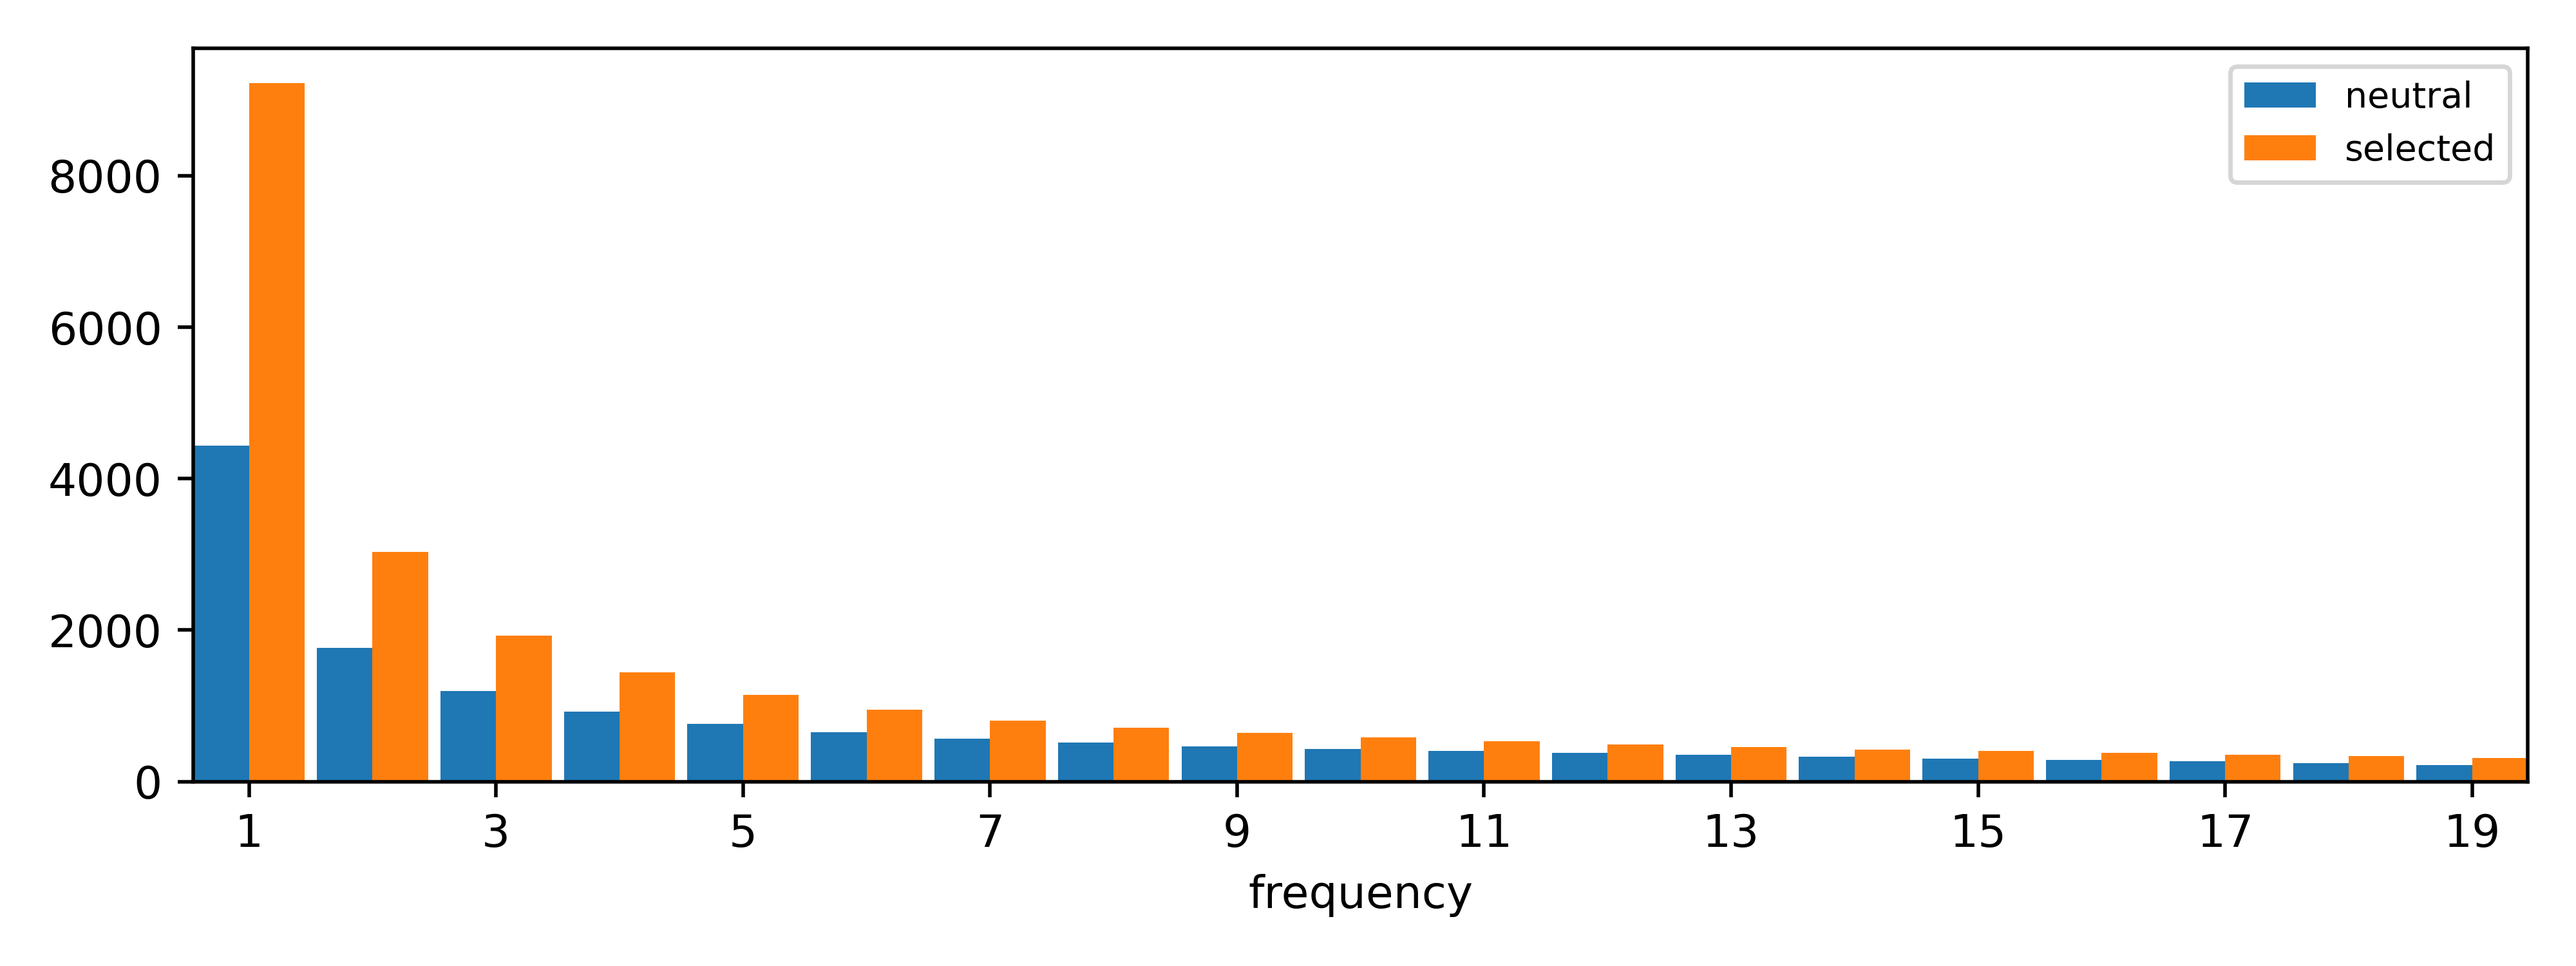
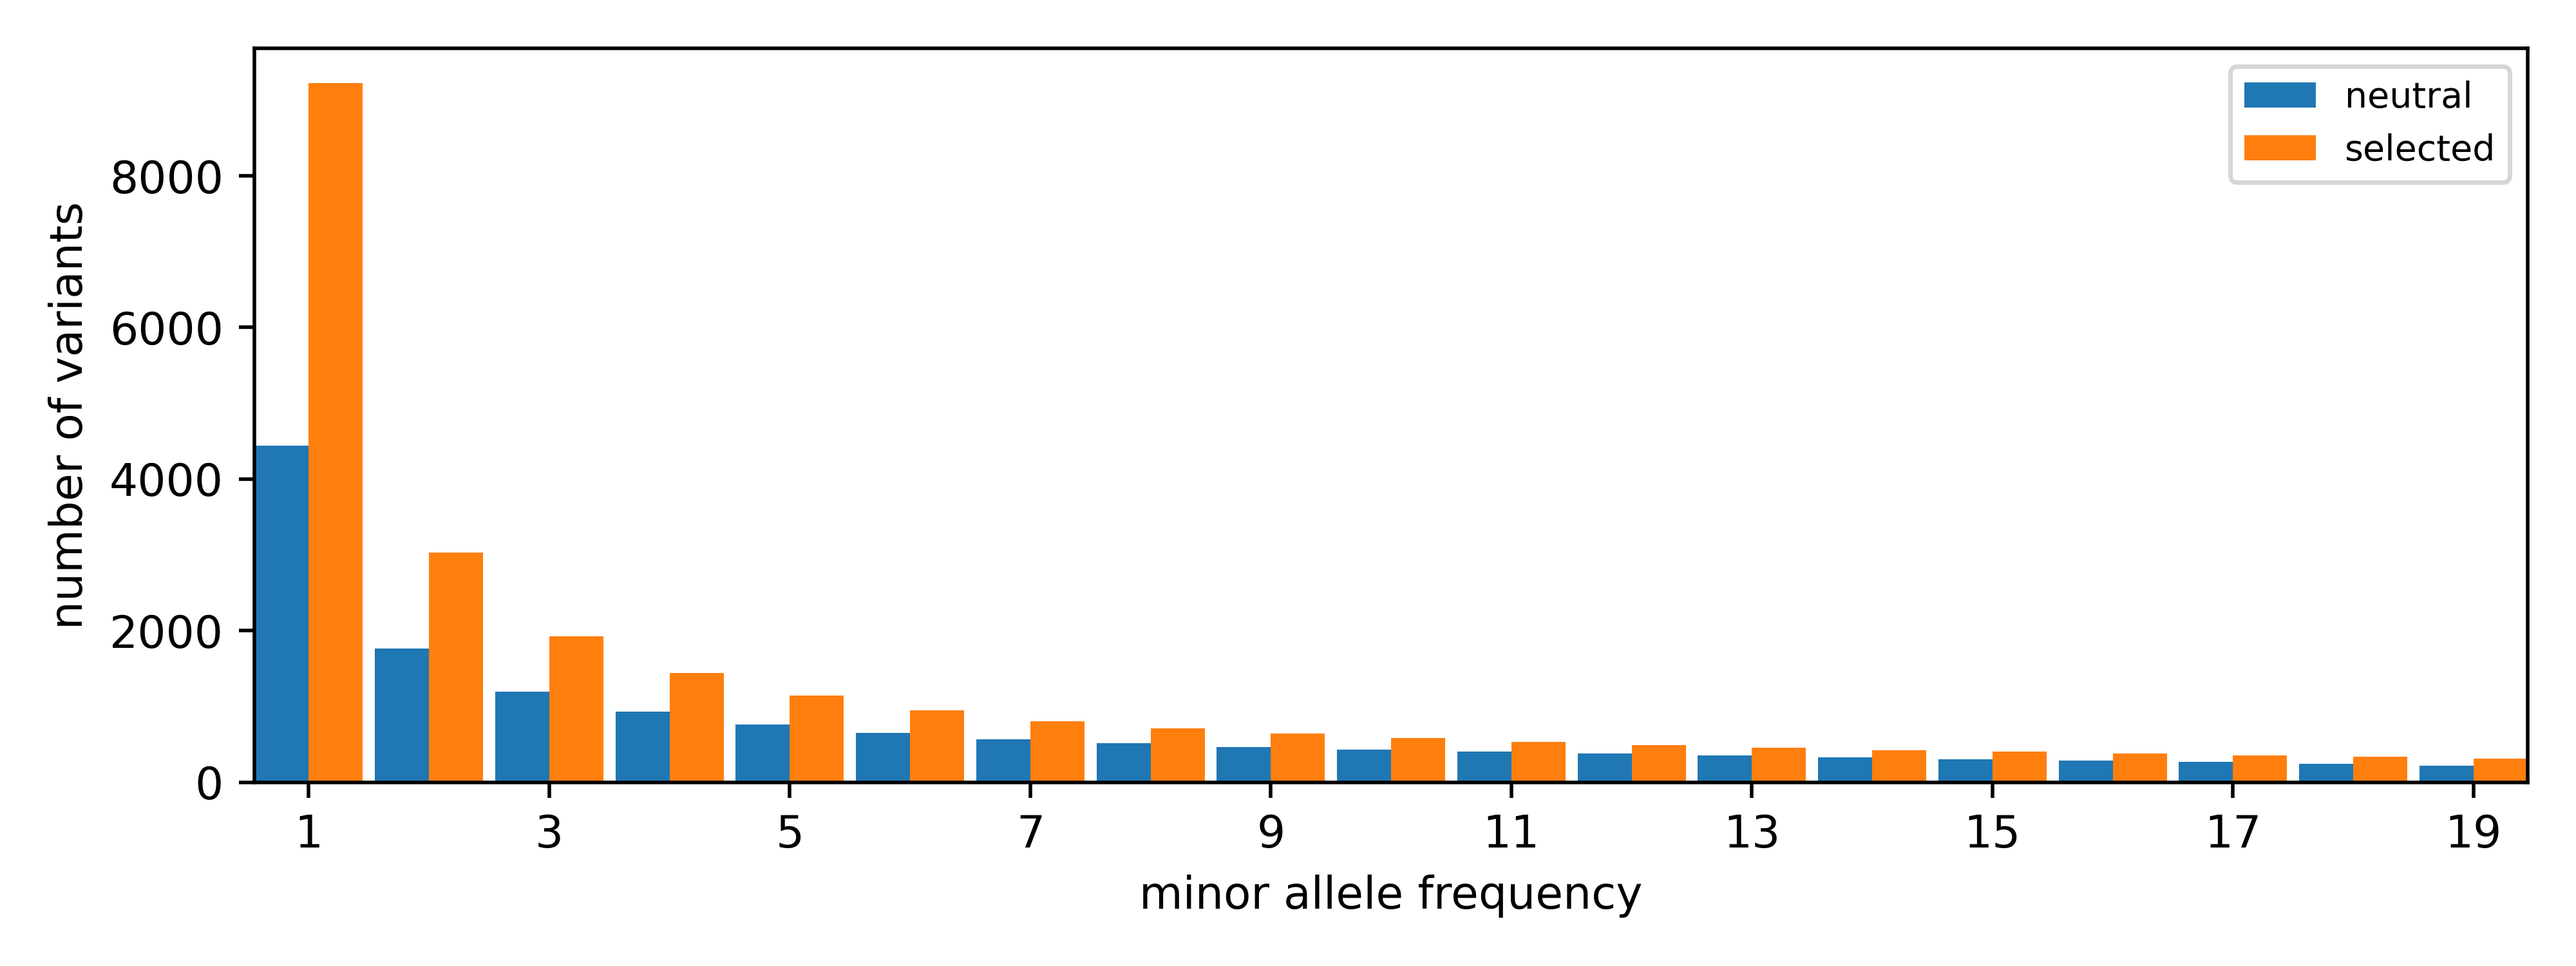
Update figures.

Changed region(s): [[0.0, 0.0613, 0.9688, 0.9507], [0.0938, 0.8587, 0.125, 0.8893], [0.0, 0.4293, 0.0312, 0.46]]

diff --git a/workflow/scripts/infer_dfe.py b/workflow/scripts/infer_dfe.py
@@ -23,6 +23,9 @@ inf.plot_discretized(show=False)
 plt.savefig('dfe_discretized.png')
 
 inf.plot_sfs_comparison(show=False)
+plt.xlabel('minor allele frequency')
+plt.ylabel('number of variants')
+plt.tight_layout()
 plt.savefig('sfs_comparison.png')
 
 pass
